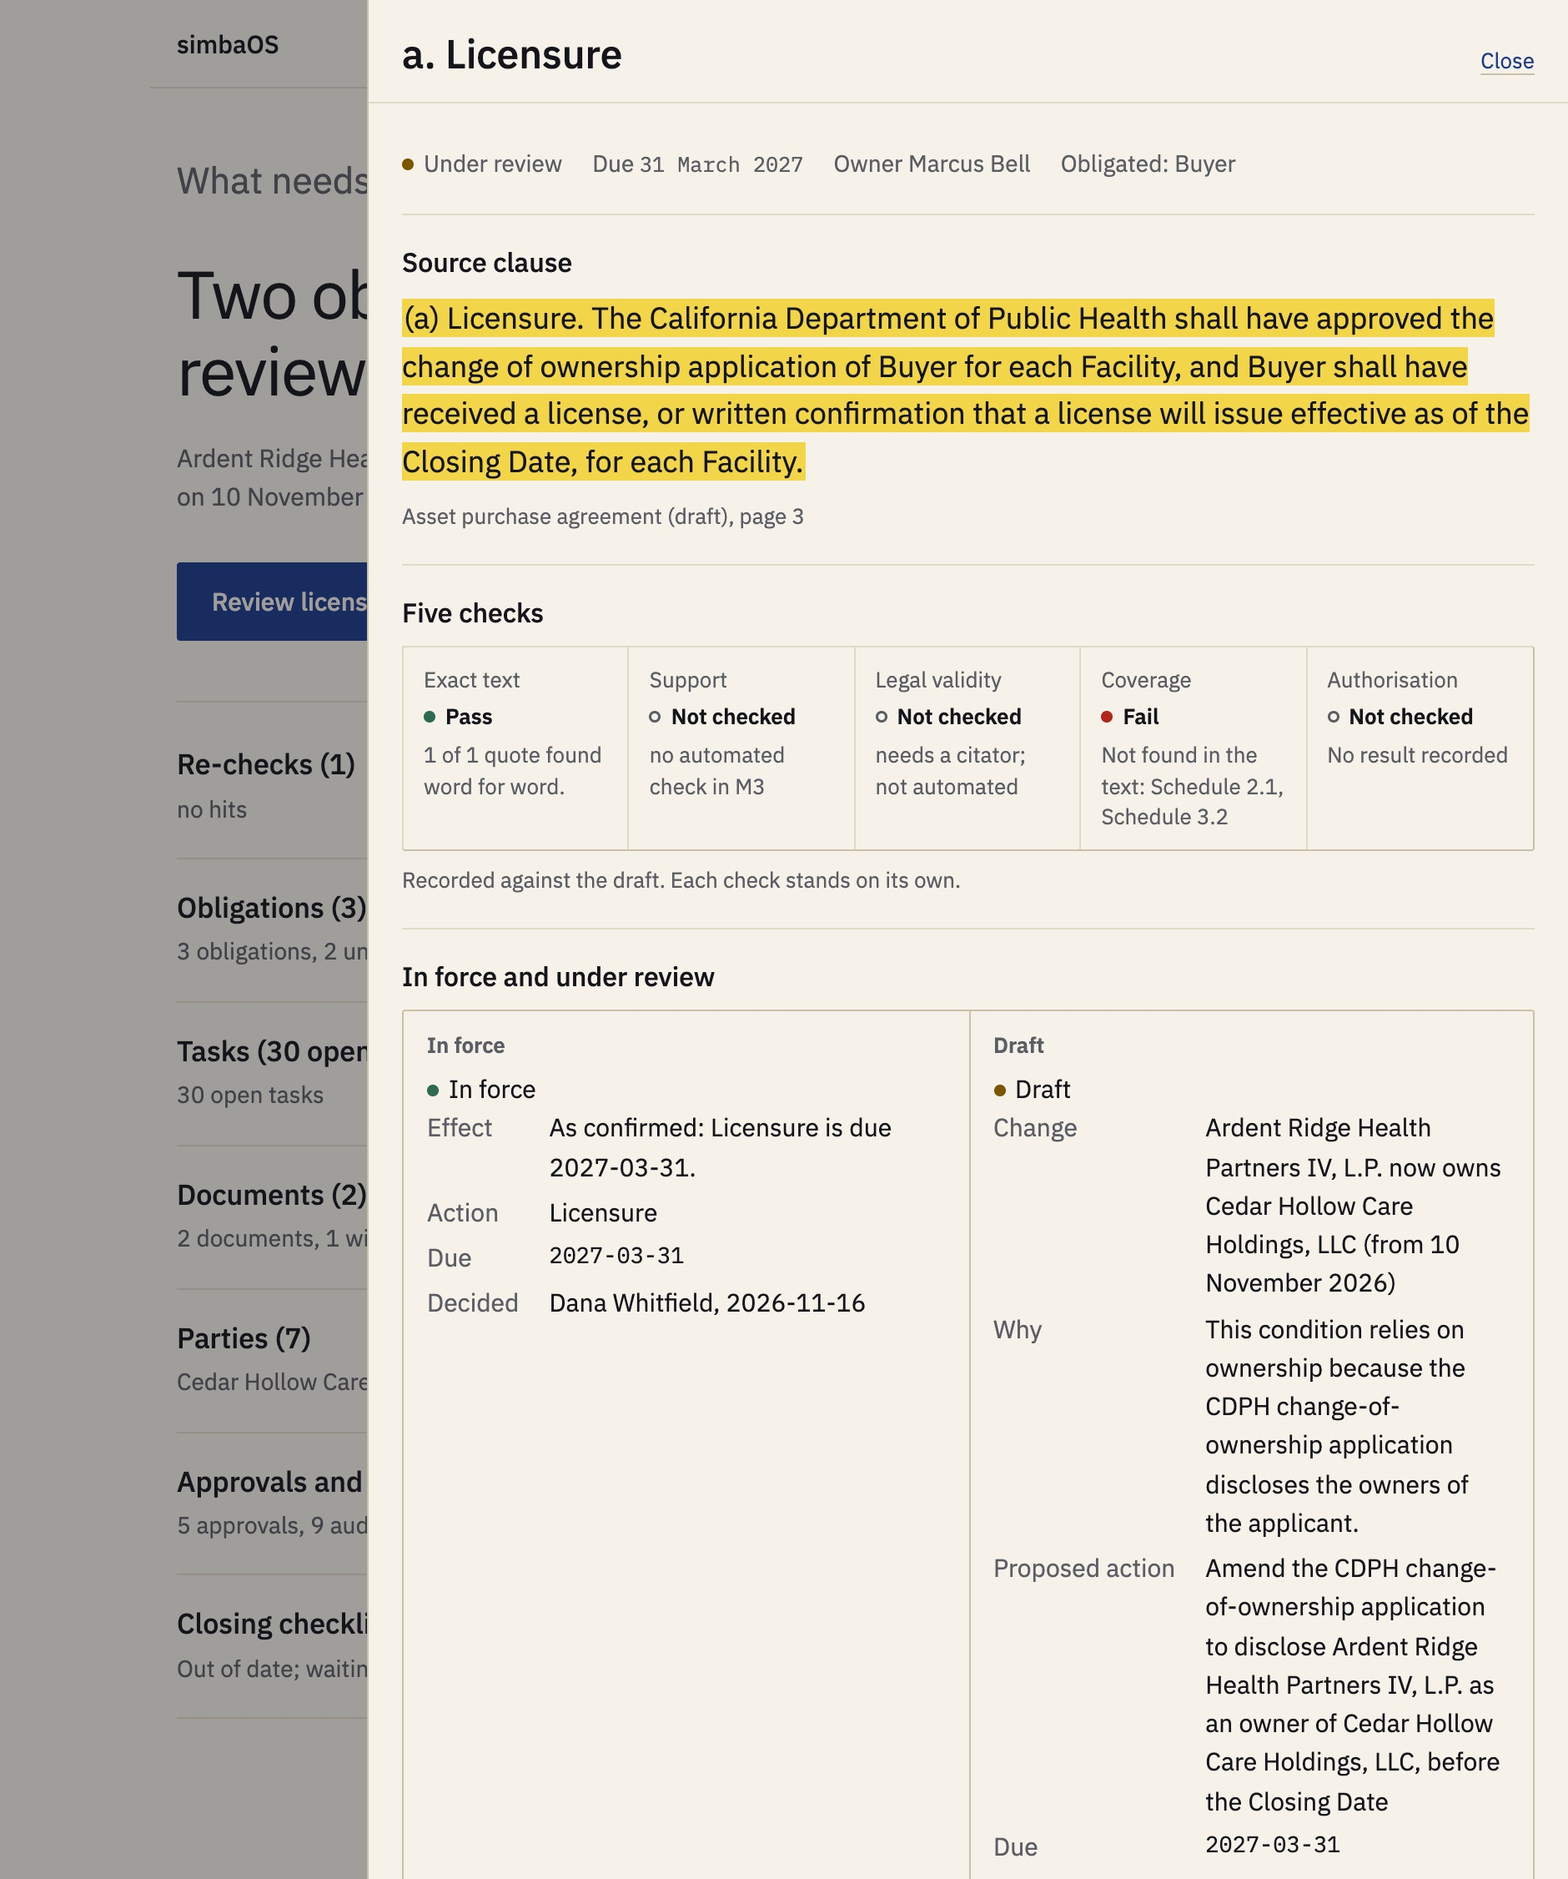
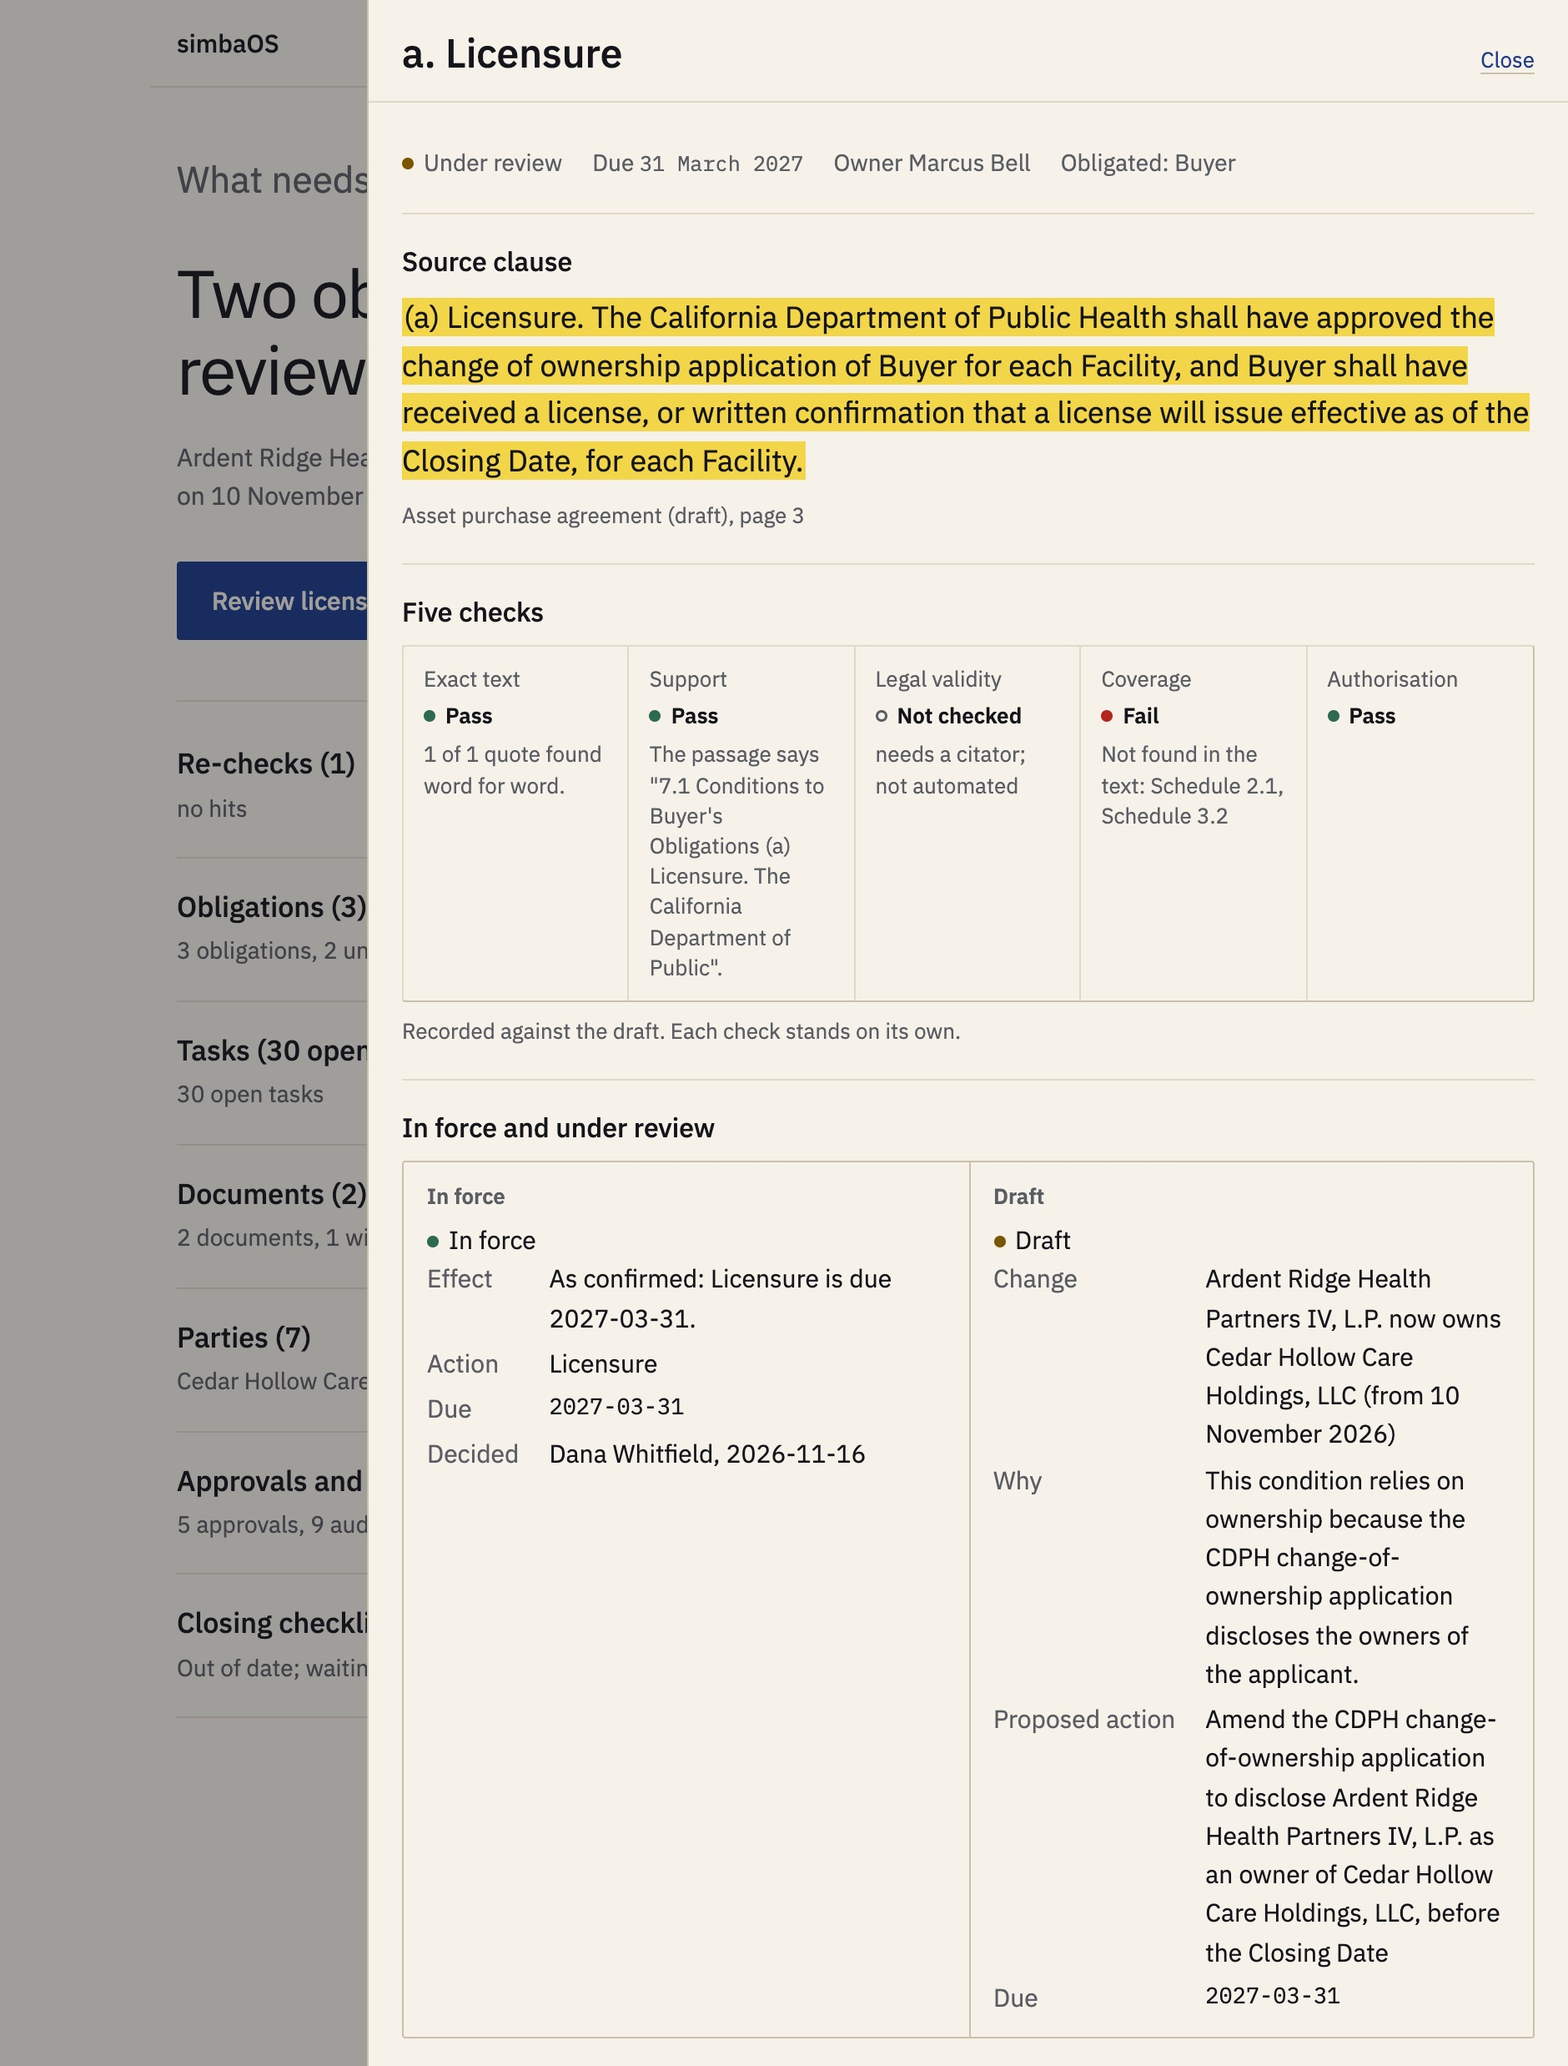
Retake simbaOS screenshots 2 and 3 on the fixed demo; update caption

diff --git a/mockup-b/legal/index.html b/mockup-b/legal/index.html
@@ -1718,8 +1718,8 @@ setTimeout(function(){d.classList.remove('arriving')},6000);}
         <figcaption>One question, one answer: what needs me on this matter? A new owner was reported on 10 November, so two obligations that depend on ownership are waiting for review. Everything else sits one click down.</figcaption>
       </figure>
       <figure>
-        <img decoding="async" src="../../assets/simbaos-2.jpg" alt="The licensure obligation open in a side panel. The source clause from the draft asset purchase agreement is highlighted, followed by five separate checks: exact text passes, support and legal validity are not checked, coverage fails, authorisation is not checked." width="940" height="1126" loading="lazy" class="portrait">
-        <figcaption>An obligation with the clause it came from. Five checks, each on its own: the quote was found word for word, but coverage fails because two schedules it points to are not in the text.</figcaption>
+        <img decoding="async" src="../../assets/simbaos-2.jpg" alt="The licensure obligation open in a side panel. The source clause from the draft asset purchase agreement is highlighted, followed by five separate checks: exact text, support and authorisation pass, legal validity is not checked, coverage fails. The in-force and draft comparison starts below." width="940" height="1238" loading="lazy" class="portrait">
+        <figcaption>An obligation with the clause it came from. Five checks, each on its own: the quote was found word for word, the model found support for it, and authorisation passes. Coverage fails because two schedules it points to are missing, and legal validity waits on a citator.</figcaption>
       </figure>
       <figure>
         <img decoding="async" src="../../assets/simbaos-3.jpg" alt="The Connections screen, headed: Is everything talking to each other? The answer reads: Crosswalk has a stale source report. Eight connections are listed, seven marked Working and Crosswalk marked Needs a look." width="940" height="1316" loading="lazy" class="portrait">

diff --git a/mockup-c/legal/index.html b/mockup-c/legal/index.html
@@ -1724,8 +1724,8 @@ d.setAttribute('data-theme',t);})();
         <figcaption>One question, one answer: what needs me on this matter? A new owner was reported on 10 November, so two obligations that depend on ownership are waiting for review. Everything else sits one click down.</figcaption>
       </figure>
       <figure>
-        <img decoding="async" src="../../assets/simbaos-2.jpg" alt="The licensure obligation open in a side panel. The source clause from the draft asset purchase agreement is highlighted, followed by five separate checks: exact text passes, support and legal validity are not checked, coverage fails, authorisation is not checked." width="940" height="1126" loading="lazy">
-        <figcaption>An obligation with the clause it came from. Five checks, each on its own: the quote was found word for word, but coverage fails because two schedules it points to are not in the text.</figcaption>
+        <img decoding="async" src="../../assets/simbaos-2.jpg" alt="The licensure obligation open in a side panel. The source clause from the draft asset purchase agreement is highlighted, followed by five separate checks: exact text, support and authorisation pass, legal validity is not checked, coverage fails. The in-force and draft comparison starts below." width="940" height="1238" loading="lazy">
+        <figcaption>An obligation with the clause it came from. Five checks, each on its own: the quote was found word for word, the model found support for it, and authorisation passes. Coverage fails because two schedules it points to are missing, and legal validity waits on a citator.</figcaption>
       </figure>
       <figure>
         <img decoding="async" src="../../assets/simbaos-3.jpg" alt="The Connections screen, headed: Is everything talking to each other? The answer reads: Crosswalk has a stale source report. Eight connections are listed, seven marked Working and Crosswalk marked Needs a look." width="940" height="1316" loading="lazy">

diff --git a/mockup-d/legal/index.html b/mockup-d/legal/index.html
@@ -1596,8 +1596,8 @@
         <figcaption>One question, one answer: what needs me on this matter? A new owner was reported on 10 November, so two obligations that depend on ownership are waiting for review. Everything else sits one click down.</figcaption>
       </figure>
       <figure>
-        <img decoding="async" src="../../assets/simbaos-2.jpg" alt="The licensure obligation open in a side panel. The source clause from the draft asset purchase agreement is highlighted, followed by five separate checks: exact text passes, support and legal validity are not checked, coverage fails, authorisation is not checked." width="940" height="1126" loading="lazy">
-        <figcaption>An obligation with the clause it came from. Five checks, each on its own: the quote was found word for word, but coverage fails because two schedules it points to are not in the text.</figcaption>
+        <img decoding="async" src="../../assets/simbaos-2.jpg" alt="The licensure obligation open in a side panel. The source clause from the draft asset purchase agreement is highlighted, followed by five separate checks: exact text, support and authorisation pass, legal validity is not checked, coverage fails. The in-force and draft comparison starts below." width="940" height="1238" loading="lazy">
+        <figcaption>An obligation with the clause it came from. Five checks, each on its own: the quote was found word for word, the model found support for it, and authorisation passes. Coverage fails because two schedules it points to are missing, and legal validity waits on a citator.</figcaption>
       </figure>
       <figure>
         <img decoding="async" src="../../assets/simbaos-3.jpg" alt="The Connections screen, headed: Is everything talking to each other? The answer reads: Crosswalk has a stale source report. Eight connections are listed, seven marked Working and Crosswalk marked Needs a look." width="940" height="1316" loading="lazy">

diff --git a/mockup-e/legal/index.html b/mockup-e/legal/index.html
@@ -1627,8 +1627,8 @@
         <figcaption>One question, one answer: what needs me on this matter? A new owner was reported on 10 November, so two obligations that depend on ownership are waiting for review. Everything else sits one click down.</figcaption>
       </figure>
       <figure>
-        <img decoding="async" src="../../assets/simbaos-2.jpg" alt="The licensure obligation open in a side panel. The source clause from the draft asset purchase agreement is highlighted, followed by five separate checks: exact text passes, support and legal validity are not checked, coverage fails, authorisation is not checked." width="940" height="1126" loading="lazy">
-        <figcaption>An obligation with the clause it came from. Five checks, each on its own: the quote was found word for word, but coverage fails because two schedules it points to are not in the text.</figcaption>
+        <img decoding="async" src="../../assets/simbaos-2.jpg" alt="The licensure obligation open in a side panel. The source clause from the draft asset purchase agreement is highlighted, followed by five separate checks: exact text, support and authorisation pass, legal validity is not checked, coverage fails. The in-force and draft comparison starts below." width="940" height="1238" loading="lazy">
+        <figcaption>An obligation with the clause it came from. Five checks, each on its own: the quote was found word for word, the model found support for it, and authorisation passes. Coverage fails because two schedules it points to are missing, and legal validity waits on a citator.</figcaption>
       </figure>
       <figure>
         <img decoding="async" src="../../assets/simbaos-3.jpg" alt="The Connections screen, headed: Is everything talking to each other? The answer reads: Crosswalk has a stale source report. Eight connections are listed, seven marked Working and Crosswalk marked Needs a look." width="940" height="1316" loading="lazy">

diff --git a/mockup-f/legal/index.html b/mockup-f/legal/index.html
@@ -1590,8 +1590,8 @@
         <figcaption>One question, one answer: what needs me on this matter? A new owner was reported on 10 November, so two obligations that depend on ownership are waiting for review. Everything else sits one click down.</figcaption>
       </figure>
       <figure>
-        <img decoding="async" src="../../assets/simbaos-2.jpg" alt="The licensure obligation open in a side panel. The source clause from the draft asset purchase agreement is highlighted, followed by five separate checks: exact text passes, support and legal validity are not checked, coverage fails, authorisation is not checked." width="940" height="1126" loading="lazy">
-        <figcaption>An obligation with the clause it came from. Five checks, each on its own: the quote was found word for word, but coverage fails because two schedules it points to are not in the text.</figcaption>
+        <img decoding="async" src="../../assets/simbaos-2.jpg" alt="The licensure obligation open in a side panel. The source clause from the draft asset purchase agreement is highlighted, followed by five separate checks: exact text, support and authorisation pass, legal validity is not checked, coverage fails. The in-force and draft comparison starts below." width="940" height="1238" loading="lazy">
+        <figcaption>An obligation with the clause it came from. Five checks, each on its own: the quote was found word for word, the model found support for it, and authorisation passes. Coverage fails because two schedules it points to are missing, and legal validity waits on a citator.</figcaption>
       </figure>
       <figure>
         <img decoding="async" src="../../assets/simbaos-3.jpg" alt="The Connections screen, headed: Is everything talking to each other? The answer reads: Crosswalk has a stale source report. Eight connections are listed, seven marked Working and Crosswalk marked Needs a look." width="940" height="1316" loading="lazy">

diff --git a/mockup-g/legal/index.html b/mockup-g/legal/index.html
@@ -1538,8 +1538,8 @@
         <figcaption>One question, one answer: what needs me on this matter? A new owner was reported on 10 November, so two obligations that depend on ownership are waiting for review. Everything else sits one click down.</figcaption>
       </figure>
       <figure>
-        <img decoding="async" src="../../assets/simbaos-2.jpg" alt="The licensure obligation open in a side panel. The source clause from the draft asset purchase agreement is highlighted, followed by five separate checks: exact text passes, support and legal validity are not checked, coverage fails, authorisation is not checked." width="940" height="1126" loading="lazy">
-        <figcaption>An obligation with the clause it came from. Five checks, each on its own: the quote was found word for word, but coverage fails because two schedules it points to are not in the text.</figcaption>
+        <img decoding="async" src="../../assets/simbaos-2.jpg" alt="The licensure obligation open in a side panel. The source clause from the draft asset purchase agreement is highlighted, followed by five separate checks: exact text, support and authorisation pass, legal validity is not checked, coverage fails. The in-force and draft comparison starts below." width="940" height="1238" loading="lazy">
+        <figcaption>An obligation with the clause it came from. Five checks, each on its own: the quote was found word for word, the model found support for it, and authorisation passes. Coverage fails because two schedules it points to are missing, and legal validity waits on a citator.</figcaption>
       </figure>
       <figure>
         <img decoding="async" src="../../assets/simbaos-3.jpg" alt="The Connections screen, headed: Is everything talking to each other? The answer reads: Crosswalk has a stale source report. Eight connections are listed, seven marked Working and Crosswalk marked Needs a look." width="940" height="1316" loading="lazy">

diff --git a/mockup-h/legal/index.html b/mockup-h/legal/index.html
@@ -1652,8 +1652,8 @@
         <figcaption>One question, one answer: what needs me on this matter? A new owner was reported on 10 November, so two obligations that depend on ownership are waiting for review. Everything else sits one click down.</figcaption>
       </figure>
       <figure>
-        <img decoding="async" src="../../assets/simbaos-2.jpg" alt="The licensure obligation open in a side panel. The source clause from the draft asset purchase agreement is highlighted, followed by five separate checks: exact text passes, support and legal validity are not checked, coverage fails, authorisation is not checked." width="940" height="1126" loading="lazy">
-        <figcaption>An obligation with the clause it came from. Five checks, each on its own: the quote was found word for word, but coverage fails because two schedules it points to are not in the text.</figcaption>
+        <img decoding="async" src="../../assets/simbaos-2.jpg" alt="The licensure obligation open in a side panel. The source clause from the draft asset purchase agreement is highlighted, followed by five separate checks: exact text, support and authorisation pass, legal validity is not checked, coverage fails. The in-force and draft comparison starts below." width="940" height="1238" loading="lazy">
+        <figcaption>An obligation with the clause it came from. Five checks, each on its own: the quote was found word for word, the model found support for it, and authorisation passes. Coverage fails because two schedules it points to are missing, and legal validity waits on a citator.</figcaption>
       </figure>
       <figure>
         <img decoding="async" src="../../assets/simbaos-3.jpg" alt="The Connections screen, headed: Is everything talking to each other? The answer reads: Crosswalk has a stale source report. Eight connections are listed, seven marked Working and Crosswalk marked Needs a look." width="940" height="1316" loading="lazy">

diff --git a/legal/index.html b/legal/index.html
@@ -1335,8 +1335,8 @@
         <figcaption>One question, one answer: what needs me on this matter? A new owner was reported on 10 November, so two obligations that depend on ownership are waiting for review. Everything else sits one click down.</figcaption>
       </figure>
       <figure>
-        <img decoding="async" src="../assets/simbaos-2.jpg" alt="The licensure obligation open in a side panel. The source clause from the draft asset purchase agreement is highlighted, followed by five separate checks: exact text passes, support and legal validity are not checked, coverage fails, authorisation is not checked." width="940" height="1126" loading="lazy">
-        <figcaption>An obligation with the clause it came from. Five checks, each on its own: the quote was found word for word, but coverage fails because two schedules it points to are not in the text.</figcaption>
+        <img decoding="async" src="../assets/simbaos-2.jpg" alt="The licensure obligation open in a side panel. The source clause from the draft asset purchase agreement is highlighted, followed by five separate checks: exact text, support and authorisation pass, legal validity is not checked, coverage fails. The in-force and draft comparison starts below." width="940" height="1238" loading="lazy">
+        <figcaption>An obligation with the clause it came from. Five checks, each on its own: the quote was found word for word, the model found support for it, and authorisation passes. Coverage fails because two schedules it points to are missing, and legal validity waits on a citator.</figcaption>
       </figure>
       <figure>
         <img decoding="async" src="../assets/simbaos-3.jpg" alt="The Connections screen, headed: Is everything talking to each other? The answer reads: Crosswalk has a stale source report. Eight connections are listed, seven marked Working and Crosswalk marked Needs a look." width="940" height="1316" loading="lazy">
